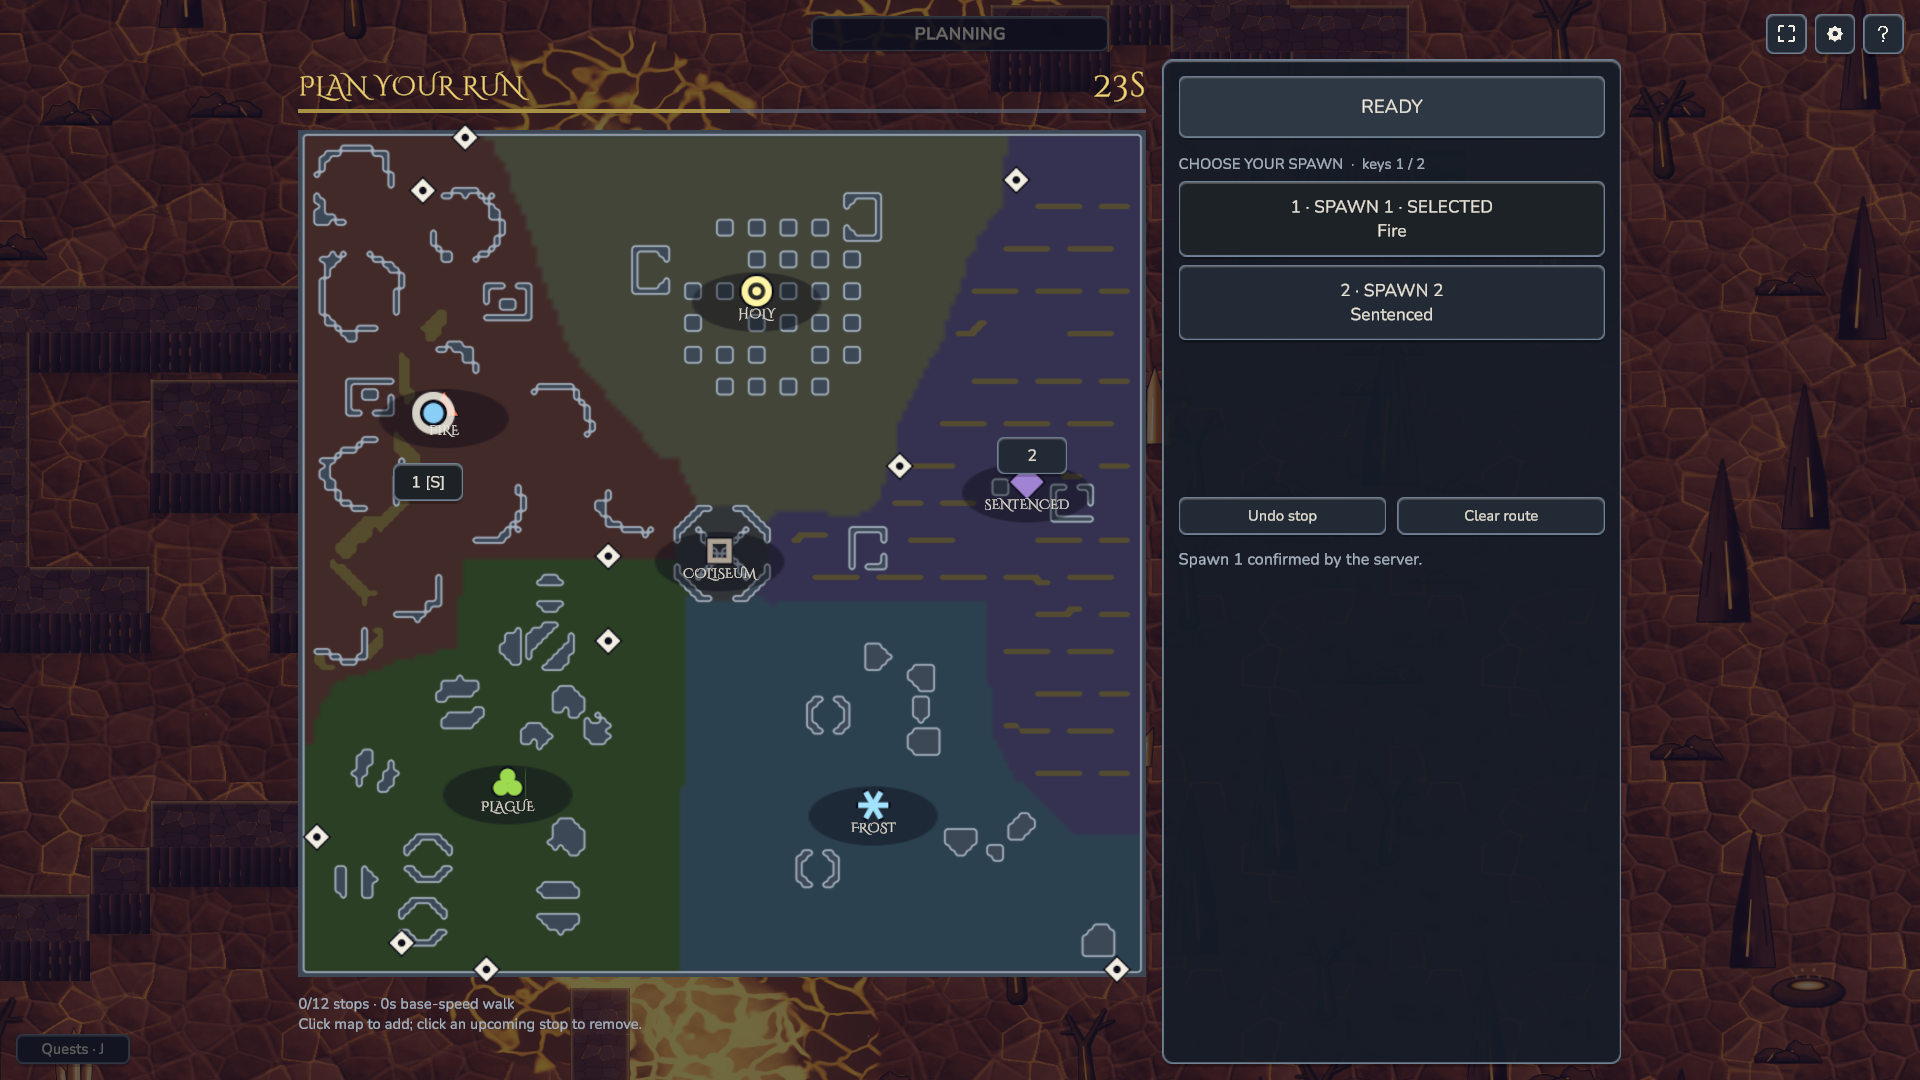
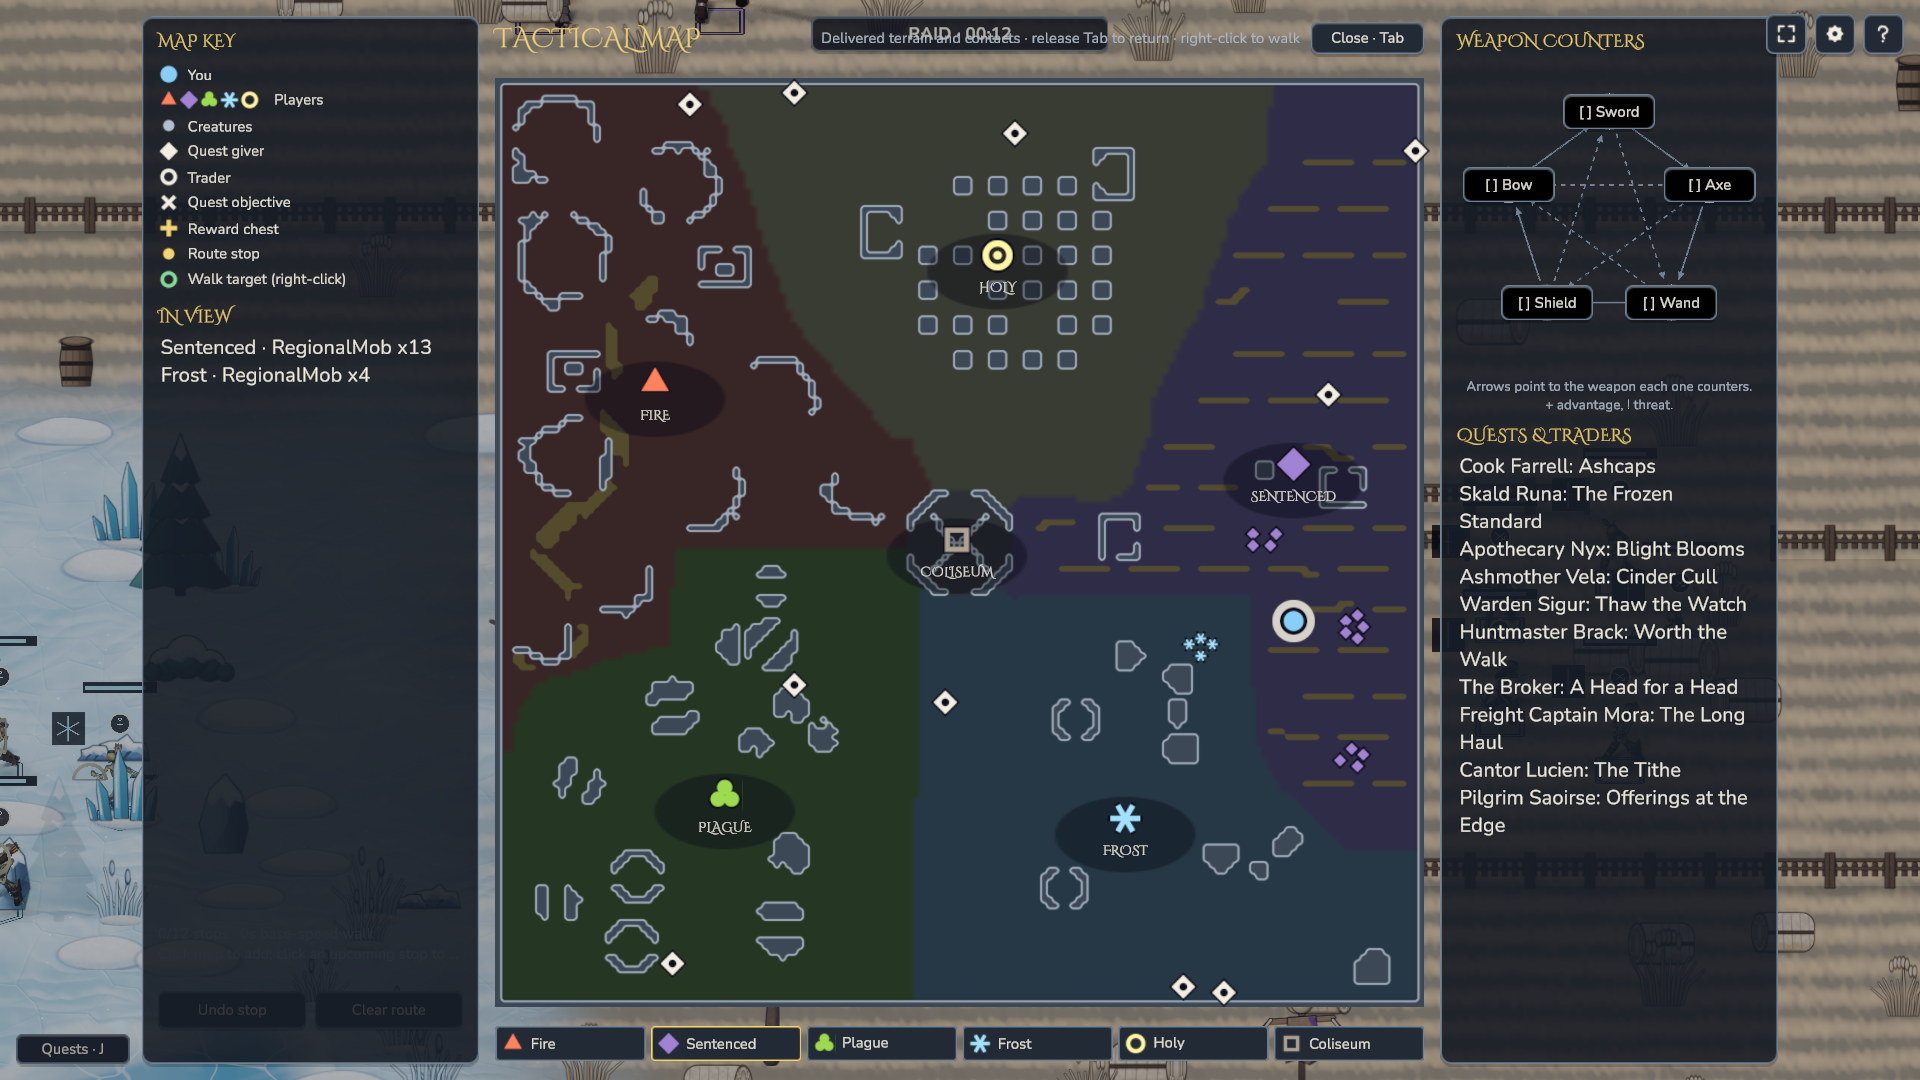
feat(map): Tab map clears the chrome, route controls above cards, text sizes, right-click routing tests

diff --git a/client-unity/UnityProject/Assets/Tests/Editor/MinimapCaptureEditModeTests.cs b/client-unity/UnityProject/Assets/Tests/Editor/MinimapCaptureEditModeTests.cs
@@ -105,6 +105,64 @@ namespace Roguehalla.Client.Tests
             if (_clientObject != null) UnityEngine.Object.DestroyImmediate(_clientObject);
         }
 
+        TacticalMapSurface LargeSurface() { return _canvasObject.transform.Find("TacticalMap/MapFrame/PublicMap").GetComponent<TacticalMapSurface>(); }
+
+        [Test]
+        public void TabMapRightClickIssuesOneOrdinaryMoveOrderAndShowsAPingOnBothMaps()
+        {
+            _map.SetOpen(true);
+            var large = LargeSurface();
+            large.Pressed(new Vector2(40f, 60f), PointerEventData.InputButton.Right);
+            _session.FlushInput();
+            var sent = _transport.TakeCommands();
+            Assert.That(sent.Count, Is.EqualTo(1), "one ordinary move order, nothing else");
+            Assert.That(sent[0].Kind, Is.EqualTo(CommandKind.Move));
+            Assert.That(sent[0].X, Is.EqualTo(40f).Within(.01f)); Assert.That(sent[0].Y, Is.EqualTo(60f).Within(.01f));
+            Assert.That(large.Marks.PingActive, Is.True, "a ping marks the destination on the Tab map");
+            Assert.That(_surface.Marks.PingActive, Is.True, "and on the minimap");
+            large.PointerReleased(new Vector2(40f, 60f), PointerEventData.InputButton.Right);
+            _session.FlushInput();
+            Assert.That(_transport.TakeCommands(), Is.Empty, "releasing on the same point does not resend it");
+        }
+
+        [Test]
+        public void TabMapLeftClickPlansARouteStopAndNeverMoves()
+        {
+            _map.SetOpen(true);
+            LargeSurface().Pressed(new Vector2(48f, 48f), PointerEventData.InputButton.Left);
+            _session.FlushInput();
+            Assert.That(_transport.TakeCommands(), Is.Empty, "left click only edits the private route");
+            LargeSurface().Pressed(new Vector2(48f, 48f), PointerEventData.InputButton.Middle);
+            _session.FlushInput();
+            Assert.That(_transport.TakeCommands(), Is.Empty);
+        }
+
+        [Test]
+        public void TabMapRightDragRepeatsAreDroppedWhenOverTheOrderBudgetButThePressAndReleaseAreNot()
+        {
+            _map.SetOpen(true);
+            var large = LargeSurface();
+            int accepted = 0;
+            for (int i = 0; i < 40; i++) if (_client.OrderMapMove(10f + i, 10f, true)) accepted++;
+            Assert.That(accepted, Is.LessThan(40), "held repeats obey the shared order budget");
+            Assert.That(accepted, Is.GreaterThan(0));
+            large.Pressed(new Vector2(70f, 70f), PointerEventData.InputButton.Right);
+            _session.FlushInput();
+            var sent = _transport.TakeCommands();
+            Assert.That(sent[sent.Count - 1].X, Is.EqualTo(70f).Within(.01f), "a press is an essential order and always goes out");
+        }
+
+        [Test]
+        public void RightClickIsIgnoredWhilePlanningSoNoOrderLeavesBeforeTheRunStarts()
+        {
+            var large = LargeSurface();
+            _transport.Deliver(new ServerMsg.State { Tick = 2, Items = new StateItem[] { new PlanState { Value = new WirePlan { EndsAt = 99999, Boons = new string[0] } } } });
+            Assert.That(_map.IsPlanning, Is.True);
+            large.Pressed(new Vector2(40f, 60f), PointerEventData.InputButton.Right);
+            _session.FlushInput();
+            Assert.That(_transport.TakeCommands(), Is.Empty);
+        }
+
         [Test]
         public void PhysicalLeftReleaseCancelsPeekAndRestoresTheOwnerCamera()
         {

diff --git a/client-unity/RoguehallaNet/Net/Ui/MapScreenLayout.cs b/client-unity/RoguehallaNet/Net/Ui/MapScreenLayout.cs
@@ -37,7 +37,7 @@ namespace Roguehalla.Net.Ui
         public readonly MapRect Map;
         /// <summary>The strip under the map: the zone legend (Tab) or the route summary (planning).</summary>
         public readonly MapRect Legend;
-        /// <summary>Tab: roster/key column. Planning: unused (zero width).</summary>
+        /// <summary>Tab: roster/key column (the whole block starts below the top-right chrome, 44 units down). Planning: unused (zero width).</summary>
         public readonly MapRect Left;
         /// <summary>Tab: weapon guide and quest column. Planning: the decision column.</summary>
         public readonly MapRect Right;
@@ -73,7 +73,7 @@ namespace Roguehalla.Net.Ui
                 side = Clamp(side, 120f, MapMax);
                 float fw = side + FramePad * 2f;
                 float x0 = (float)Math.Floor((w - Math.Max(fw, avail)) / 2f);
-                float y = Pad;
+                float y = ChromeClear;
                 var title = new MapRect(x0 + (Math.Max(fw, avail) - fw) / 2f, y, fw, TitleHeight);
                 var frame = new MapRect(title.X, title.Bottom + Gap / 2f, fw, fw);
                 var leg = new MapRect(title.X, frame.Bottom + Gap / 2f, fw, legend);
@@ -81,15 +81,15 @@ namespace Roguehalla.Net.Ui
                 float top = leg.Bottom + Gap; float rest = Math.Max(60f, h - Pad - top);
                 var left = new MapRect(Pad, top, colW, rest);
                 var right = new MapRect(Pad + colW + Gap, top, colW, rest);
-                return new MapScreenLayout(MapScreenMode.Tab, true, title, frame, leg, left, right, new MapRect(Pad, Pad, avail, h - Pad * 2f));
+                return new MapScreenLayout(MapScreenMode.Tab, true, title, frame, leg, left, right, new MapRect(Pad, ChromeClear, avail, h - ChromeClear - Pad));
             }
             float fixedH = TitleHeight + Gap + Gap + legend + FramePad * 2f;
-            float sideMax = (float)Math.Floor(Math.Min(h - Pad * 2f - fixedH, w - Pad * 2f - col * 2f - Gap * 2f - FramePad * 2f));
+            float sideMax = (float)Math.Floor(Math.Min(h - ChromeClear - Pad - fixedH, w - Pad * 2f - col * 2f - Gap * 2f - FramePad * 2f));
             float mapSide = Clamp(sideMax, MapMin, MapMax);
             float frameW = mapSide + FramePad * 2f;
             float totalW = col * 2f + Gap * 2f + frameW;
             float colH = TitleHeight + Gap + frameW + Gap + legend;
-            float bx = (float)Math.Floor((w - totalW) / 2f), by = (float)Math.Floor((h - colH) / 2f);
+            float bx = (float)Math.Floor((w - totalW) / 2f), by = (float)Math.Max(ChromeClear, Math.Floor(ChromeClear + (h - ChromeClear - Pad - colH) / 2f));
             var left2 = new MapRect(bx, by, col, colH);
             float mx = bx + col + Gap;
             var title2 = new MapRect(mx, by, frameW, TitleHeight);

diff --git a/client-unity/UnityProject/Assets/RoguehallaNet/Net/Ui/MapScreenLayout.cs b/client-unity/UnityProject/Assets/RoguehallaNet/Net/Ui/MapScreenLayout.cs
@@ -37,7 +37,7 @@ namespace Roguehalla.Net.Ui
         public readonly MapRect Map;
         /// <summary>The strip under the map: the zone legend (Tab) or the route summary (planning).</summary>
         public readonly MapRect Legend;
-        /// <summary>Tab: roster/key column. Planning: unused (zero width).</summary>
+        /// <summary>Tab: roster/key column (the whole block starts below the top-right chrome, 44 units down). Planning: unused (zero width).</summary>
         public readonly MapRect Left;
         /// <summary>Tab: weapon guide and quest column. Planning: the decision column.</summary>
         public readonly MapRect Right;
@@ -73,7 +73,7 @@ namespace Roguehalla.Net.Ui
                 side = Clamp(side, 120f, MapMax);
                 float fw = side + FramePad * 2f;
                 float x0 = (float)Math.Floor((w - Math.Max(fw, avail)) / 2f);
-                float y = Pad;
+                float y = ChromeClear;
                 var title = new MapRect(x0 + (Math.Max(fw, avail) - fw) / 2f, y, fw, TitleHeight);
                 var frame = new MapRect(title.X, title.Bottom + Gap / 2f, fw, fw);
                 var leg = new MapRect(title.X, frame.Bottom + Gap / 2f, fw, legend);
@@ -81,15 +81,15 @@ namespace Roguehalla.Net.Ui
                 float top = leg.Bottom + Gap; float rest = Math.Max(60f, h - Pad - top);
                 var left = new MapRect(Pad, top, colW, rest);
                 var right = new MapRect(Pad + colW + Gap, top, colW, rest);
-                return new MapScreenLayout(MapScreenMode.Tab, true, title, frame, leg, left, right, new MapRect(Pad, Pad, avail, h - Pad * 2f));
+                return new MapScreenLayout(MapScreenMode.Tab, true, title, frame, leg, left, right, new MapRect(Pad, ChromeClear, avail, h - ChromeClear - Pad));
             }
             float fixedH = TitleHeight + Gap + Gap + legend + FramePad * 2f;
-            float sideMax = (float)Math.Floor(Math.Min(h - Pad * 2f - fixedH, w - Pad * 2f - col * 2f - Gap * 2f - FramePad * 2f));
+            float sideMax = (float)Math.Floor(Math.Min(h - ChromeClear - Pad - fixedH, w - Pad * 2f - col * 2f - Gap * 2f - FramePad * 2f));
             float mapSide = Clamp(sideMax, MapMin, MapMax);
             float frameW = mapSide + FramePad * 2f;
             float totalW = col * 2f + Gap * 2f + frameW;
             float colH = TitleHeight + Gap + frameW + Gap + legend;
-            float bx = (float)Math.Floor((w - totalW) / 2f), by = (float)Math.Floor((h - colH) / 2f);
+            float bx = (float)Math.Floor((w - totalW) / 2f), by = (float)Math.Max(ChromeClear, Math.Floor(ChromeClear + (h - ChromeClear - Pad - colH) / 2f));
             var left2 = new MapRect(bx, by, col, colH);
             float mx = bx + col + Gap;
             var title2 = new MapRect(mx, by, frameW, TitleHeight);

diff --git a/client-unity/UnityProject/Assets/Scripts/UI/TacticalMapController.cs b/client-unity/UnityProject/Assets/Scripts/UI/TacticalMapController.cs
@@ -147,7 +147,7 @@ namespace Roguehalla.Client
             ((RectTransform)_contactRail.Find("KeyHeading")).offsetMax = new Vector2(-12f, -10f);
             BuildKey(theme);
             _inViewHeading = HudUi.Label(_contactRail, "InViewHeading", "IN VIEW", 13f, theme.Accent, TextAlignmentOptions.TopLeft, false, UiFontRole.Display);
-            _contactsText = MythicUi.ScrollText(_contactRail, "DeliveredContacts", "", Vector2.zero, Vector2.one, 10);
+            _contactsText = MythicUi.ScrollText(_contactRail, "DeliveredContacts", "", Vector2.zero, Vector2.one, 7.7f);
             _contactScroll = (RectTransform)_contactsText.transform.parent.parent;
             _counterRail = HudUi.Box(_runRail, "WeaponsPage", HudAnchor.TopLeft, 0, 0, 250, 500);
             HudUi.Surface(_counterRail, theme.Surface, theme.CornerRadiusLarge, theme.Border, true, true);
@@ -165,7 +165,7 @@ namespace Roguehalla.Client
             var legendText = _counterGuide.LegendRoot.GetComponentInChildren<TMP_Text>();
             legendText.text = "Arrows point to the weapon each one counters. + advantage, ! threat."; legendText.enableAutoSizing = false; legendText.fontSize = 10f;
             _questHeading = HudUi.Label(_counterRail, "QuestHeading", "QUESTS & TRADERS", 13f, theme.Accent, TextAlignmentOptions.TopLeft, false, UiFontRole.Display);
-            _questsText = MythicUi.ScrollText(_counterRail, "QuestList", "", Vector2.zero, Vector2.one, 10);
+            _questsText = MythicUi.ScrollText(_counterRail, "QuestList", "", Vector2.zero, Vector2.one, 7.7f);
             _questScroll = (RectTransform)_questsText.transform.parent.parent;
 
             // Legacy minimap: a square 12/12 from the bottom-right corner, no button strip, frame ring is the border (drawn rect = hit rect).
@@ -175,6 +175,8 @@ namespace Roguehalla.Client
             _mini = miniFrame.gameObject.AddComponent<TacticalMapSurface>(); _mini.Initialize();
             _miniMarks = _mini.GetComponentInChildren<TacticalMapMarks>();
             _mini.Pressed = MinimapPress; _mini.Dragged = MinimapDrag; _mini.PointerReleased = MinimapRelease; _mini.Aborted = ReleaseMinimap;
+            // Route controls draw over both the planning card and the Tab columns.
+            _routeText.transform.SetAsLastSibling(); _undo.transform.SetAsLastSibling(); _clear.transform.SetAsLastSibling(); _status.transform.SetAsLastSibling();
             _layoutScale = -1f;
             SyncStage(); ApplyLayout(true);
             _panel.gameObject.SetActive(false); _miniRoot.gameObject.SetActive(false);

diff --git a/client-unity/RoguehallaNet.Tests/MapScreenTests.cs b/client-unity/RoguehallaNet.Tests/MapScreenTests.cs
@@ -175,7 +175,8 @@ namespace Roguehalla.Net.Tests
             Assert.IsFalse(a.Stacked);
             float margin = a.Body.X, other = 1280 - a.Body.Right;
             Assert.AreEqual(margin, other, 1.01f, "centred horizontally");
-            Assert.AreEqual(a.Body.Y, 800 - a.Body.Bottom, 1.01f, "centred vertically");
+            Assert.GreaterOrEqual(a.Body.Y, MapScreenLayout.ChromeClear, "clears the top-right chrome buttons and the phase pill");
+            Assert.LessOrEqual(a.Body.Bottom, 800 - MapScreenLayout.Pad + .01f);
             var b = MapScreenLayout.Compute(1707, 960, MapScreenMode.Tab);
             Assert.Greater(b.Map.W, a.Map.W);
             Assert.LessOrEqual(b.Map.W, MapScreenLayout.MapMax);
